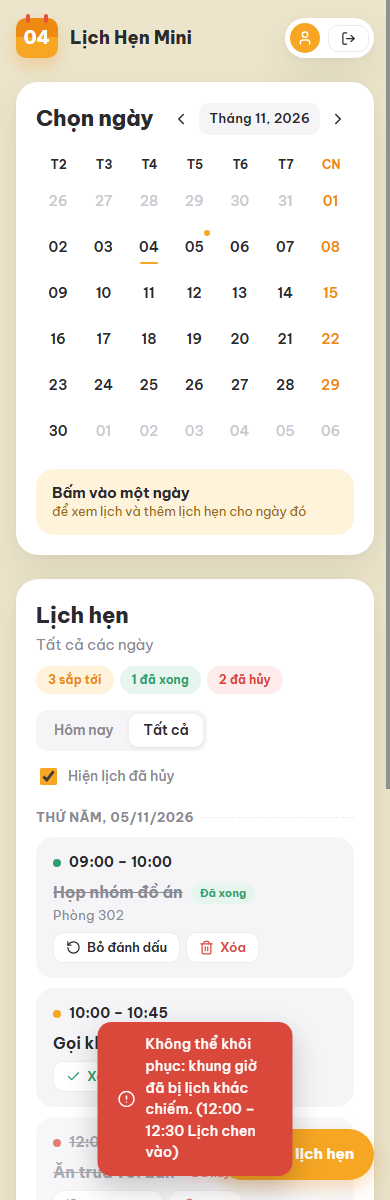
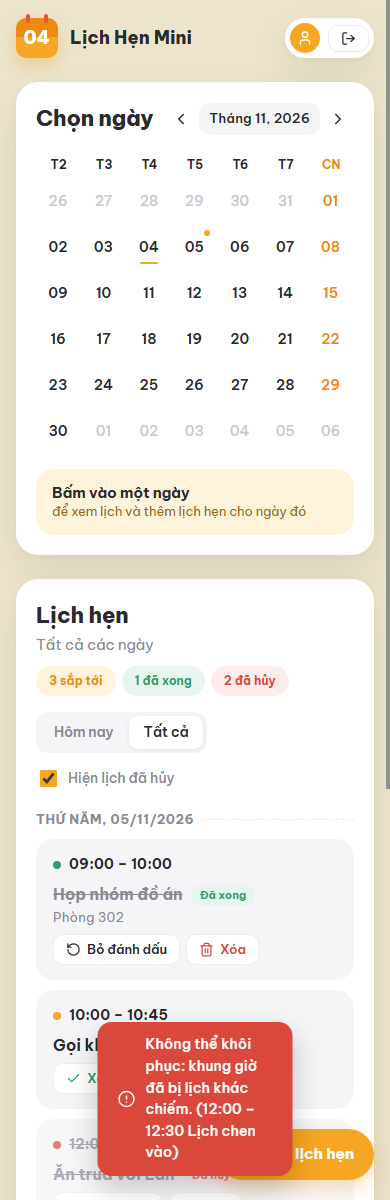
feat: stat chips act as status filters (upcoming / done / cancelled)
- click a chip to list exactly the counted appointments across all days; click again to clear
- date / today / all selections reset the status filter
- e2e: 4 new checks (26 total); docs updated

diff --git a/src/app.js b/src/app.js
@@ -36,6 +36,8 @@ const filterCancelled = $('#filter-cancelled');
 let user = null;
 let appointments = [];
 let highlightIds = new Set();
+// Lọc theo trạng thái khi bấm badge thống kê: null | 'upcoming' | 'done' | 'cancelled'
+let statusFilter = null;
 
 // ---------- tiện ích hiển thị ----------
 function el(tag, props = {}, ...children) {
@@ -206,6 +208,7 @@ form.addEventListener('submit', (e) => {
 
   highlightIds = new Set();
   closeForm();
+  statusFilter = null;
   filterDate.value = result.appointment.start.slice(0, 10);
   persist(result.appointments);
   toast(`Đã lưu "${result.appointment.title}" lúc ${formatRange(result.appointment)}.`);
@@ -285,28 +288,36 @@ function render() {
   const done = appointments.filter((a) => a.status === STATUS.DONE).length;
   const cancelled = appointments.filter((a) => a.status === STATUS.CANCELLED).length;
   renderCalendar();
-  $('#list-sub').textContent = filterDate.value ? formatDay(filterDate.value) : 'Tất cả các ngày';
-  $('#btn-today').classList.toggle('on', filterDate.value === todayStr());
-  $('#btn-all').classList.toggle('on', !filterDate.value);
+  $('#list-sub').textContent = statusFilter
+    ? `${STATUS_FILTERS[statusFilter].title} · tất cả các ngày`
+    : filterDate.value
+      ? formatDay(filterDate.value)
+      : 'Tất cả các ngày';
+  $('#btn-today').classList.toggle('on', !statusFilter && filterDate.value === todayStr());
+  $('#btn-all').classList.toggle('on', !statusFilter && !filterDate.value);
+  filterCancelled.closest('label').hidden = !!statusFilter;
   $('#stats').replaceChildren(
-    el('span', { className: 'chip up', textContent: `${upcoming} sắp tới` }),
-    el('span', { className: 'chip ok', textContent: `${done} đã xong` }),
-    el('span', { className: 'chip no', textContent: `${cancelled} đã hủy` }),
+    statChip('upcoming', 'up', upcoming),
+    statChip('done', 'ok', done),
+    statChip('cancelled', 'no', cancelled),
   );
 
-  const visible = appointments.filter(
-    (a) =>
-      (filterCancelled.checked || a.status !== STATUS.CANCELLED) &&
-      (!filterDate.value || a.start.startsWith(filterDate.value)),
+  const visible = appointments.filter((a) =>
+    statusFilter
+      ? STATUS_FILTERS[statusFilter].match(a)
+      : (filterCancelled.checked || a.status !== STATUS.CANCELLED) &&
+        (!filterDate.value || a.start.startsWith(filterDate.value)),
   );
 
   const groups = groupByDate(visible);
   const today = todayStr();
   if (groups.length === 0) {
-    const msg = filterDate.value
-      ? `Không có lịch hẹn nào vào ${formatDay(filterDate.value)}.`
-      : 'Chưa có lịch hẹn nào. Hãy tạo lịch hẹn đầu tiên.';
-    const canAdd = !filterDate.value || filterDate.value >= today;
+    const msg = statusFilter
+      ? `Không có lịch hẹn nào ${STATUS_FILTERS[statusFilter].label}.`
+      : filterDate.value
+        ? `Không có lịch hẹn nào vào ${formatDay(filterDate.value)}.`
+        : 'Chưa có lịch hẹn nào. Hãy tạo lịch hẹn đầu tiên.';
+    const canAdd = !statusFilter && (!filterDate.value || filterDate.value >= today);
     const cta = canAdd
       ? el('button', { type: 'button', className: 'btn small add-day' }, icon('plus', { size: 15 }), 'Tạo lịch hẹn')
       : null;
@@ -332,6 +343,35 @@ function render() {
       ),
     ),
   );
+}
+
+const STATUS_FILTERS = {
+  upcoming: {
+    label: 'sắp tới',
+    title: 'Lịch sắp tới',
+    match: (a) => a.status === STATUS.SCHEDULED && toMs(a.end) > Date.now(),
+  },
+  done: { label: 'đã xong', title: 'Lịch đã xong', match: (a) => a.status === STATUS.DONE },
+  cancelled: { label: 'đã hủy', title: 'Lịch đã hủy', match: (a) => a.status === STATUS.CANCELLED },
+};
+
+// Badge thống kê là nút lọc: bấm để xem đúng các lịch được đếm, bấm lại để bỏ lọc.
+function statChip(key, tone, n) {
+  const active = statusFilter === key;
+  const b = el('button', {
+    type: 'button',
+    className: `chip ${tone}${active ? ' active' : ''}`,
+    textContent: `${n} ${STATUS_FILTERS[key].label}`,
+    title: active ? 'Bấm để bỏ lọc' : `Xem các lịch ${STATUS_FILTERS[key].label}`,
+  });
+  b.dataset.filter = key;
+  b.setAttribute('aria-pressed', String(active));
+  b.addEventListener('click', () => {
+    statusFilter = active ? null : key;
+    filterDate.value = '';
+    render();
+  });
+  return b;
 }
 
 // ---------- lịch tháng ----------
@@ -374,6 +414,7 @@ function renderCalendar() {
       btn.addEventListener('click', () => {
         const same = filterDate.value === c.date;
         filterDate.value = same ? '' : c.date;
+        statusFilter = null;
         render();
       });
       return btn;
@@ -415,10 +456,12 @@ $('#login-day').textContent = dayNum;
 
 filterCancelled.addEventListener('change', render);
 $('#btn-today').addEventListener('click', () => {
+  statusFilter = null;
   filterDate.value = todayStr();
   render();
 });
 $('#btn-all').addEventListener('click', () => {
+  statusFilter = null;
   filterDate.value = '';
   render();
 });
@@ -443,6 +486,7 @@ $('#btn-seed').addEventListener('click', () => {
       added++;
     }
   }
+  statusFilter = null;
   filterDate.value = day;
   persist(next);
   toast(added ? `Đã thêm ${added} lịch mẫu vào ngày mai.` : 'Lịch mẫu đã có sẵn (trùng giờ nên không thêm lại).');
@@ -455,6 +499,7 @@ function showApp(nextUser) {
   appointments = loadAppointments(user.id);
   highlightIds = new Set();
   closeForm();
+  statusFilter = null;
   filterDate.value = '';
 
   $('#user-name').textContent = user.guest ? 'Khách (chưa đăng nhập)' : user.name;

diff --git a/scripts/e2e-smoke.js b/scripts/e2e-smoke.js
@@ -178,6 +178,22 @@ check(
   (await evaluate(`${titleSel('Ăn trưa với Lan')}.classList.contains('is-cancelled') && document.querySelector('#toast').classList.contains('error')`)),
 );
 
+// Badge thống kê là nút lọc
+const chipCheck = (key, cls) => `(() => {
+  const chip = document.querySelector('.chip[data-filter=${key}]');
+  chip.click();
+  const items = [...document.querySelectorAll('#list .item')];
+  const n = parseInt(document.querySelector('.chip[data-filter=${key}]').textContent, 10);
+  return document.querySelector('.chip[data-filter=${key}]').classList.contains('active') &&
+    items.length === n && items.every((i) => i.classList.contains('${cls}'));
+})()`;
+check('E2E-21 bấm badge "đã xong" → chỉ hiện lịch đã xong, đúng số lượng', await evaluate(chipCheck('done', 'is-done')));
+check('E2E-22 bấm badge "đã hủy" → chỉ hiện lịch đã hủy, đúng số lượng', await evaluate(chipCheck('cancelled', 'is-cancelled')));
+check('E2E-23 bấm badge "sắp tới" → chỉ hiện lịch chưa diễn ra', await evaluate(chipCheck('upcoming', 'is-scheduled')));
+await shot('06-chip-filter.png');
+await evaluate("document.querySelector('.chip[data-filter=upcoming]').click()");
+check('E2E-24 bấm lại badge đang chọn → bỏ lọc', await evaluate("!document.querySelector('.chip.active') && document.querySelector('#btn-all').classList.contains('on')"));
+
 const before = await evaluate("document.querySelectorAll('#list .item').length");
 await evaluate("document.querySelector('#btn-logout').click()");
 check('E2E-15 đăng xuất → về màn hình đăng nhập, ẩn dữ liệu', await evaluate("!document.querySelector('#login-view').hidden && document.querySelector('#app-view').hidden"));

diff --git a/css/style.css b/css/style.css
@@ -361,10 +361,27 @@ textarea { resize: vertical; }
 .list-head { display: flex; justify-content: space-between; align-items: flex-start; gap: 10px; flex-wrap: wrap; margin-bottom: 16px; }
 .list-head h2 { margin: 0 0 2px; }
 .stats { display: flex; gap: 6px; flex-wrap: wrap; }
-.chip { font-size: 0.76rem; font-weight: 700; padding: 5px 12px; border-radius: 999px; background: var(--surface); color: var(--muted); }
+.chip {
+  font: inherit;
+  font-size: 0.76rem;
+  font-weight: 700;
+  padding: 5px 12px;
+  border-radius: 999px;
+  border: 1.5px solid transparent;
+  background: var(--surface);
+  color: var(--muted);
+  cursor: pointer;
+  transition: background 0.15s, color 0.15s, border-color 0.15s, box-shadow 0.15s;
+}
+.chip:focus-visible { outline: 3px solid rgb(246 166 35 / 0.45); outline-offset: 2px; }
 .chip.up { color: var(--accent-deep); background: var(--accent-soft); }
 .chip.ok { color: var(--done); background: var(--done-bg); }
 .chip.no { color: var(--cancel); background: var(--cancel-bg); }
+.chip:hover { border-color: currentColor; }
+.chip.active { color: #fff; border-color: transparent; box-shadow: 0 4px 12px rgb(0 0 0 / 0.12); }
+.chip.up.active { background: var(--accent); }
+.chip.ok.active { background: var(--done); }
+.chip.no.active { background: var(--cancel); }
 
 .filters { display: flex; flex-wrap: wrap; gap: 14px; align-items: center; margin-bottom: 20px; }
 .inline { display: flex; align-items: center; gap: 8px; font-size: 0.86rem; color: var(--muted); font-weight: 500; }

diff --git a/docs/TEST_CASES.md b/docs/TEST_CASES.md
@@ -5,8 +5,8 @@ Có 3 lớp kiểm thử:
 | Lớp | Cách chạy | Kết quả |
 |---|---|---|
 | Unit test (`tests/scheduler.test.js`, `auth.test.js`, `calendar.test.js`) | `npm test` | **50/50 pass** |
-| E2E smoke test trên trình duyệt thật (tự động hoá phần lớn bảng A) | `npm start` rồi `node scripts/e2e-smoke.js` | **22/22 pass** |
-| Test thủ công (bảng dưới) | Theo các bước trong bảng | **25/28 pass**, 3 case chờ test với Google Client ID thật |
+| E2E smoke test trên trình duyệt thật (tự động hoá phần lớn bảng A) | `npm start` rồi `node scripts/e2e-smoke.js` | **26/26 pass** |
+| Test thủ công (bảng dưới) | Theo các bước trong bảng | **26/29 pass**, 3 case chờ test với Google Client ID thật |
 
 ## A. Test thủ công
 
@@ -50,6 +50,7 @@ Có 3 lớp kiểm thử:
 | TC-T26 | Bấm một ngày tương lai đã có lịch 09:00–10:00 → "Thêm lịch vào ngày này" | Popup mở, ngày điền sẵn, giờ gợi ý 10:00–10:30 | ✅ Pass |
 | TC-T27 | Bấm một ngày đã qua | Nút "Thêm lịch vào ngày này" bị tắt, ghi "Ngày đã qua" | ✅ Pass |
 | TC-T28 | Mở popup, nhấn Esc / bấm vùng tối bên ngoài | Popup đóng, không tạo lịch | ✅ Pass |
+| TC-T29 | Bấm badge "1 đã xong", rồi bấm lại | Lần 1: chỉ còn lịch đã xong, badge tô đậm; lần 2: hiện lại tất cả | ✅ Pass |
 
 ### A4. Đăng nhập
 
